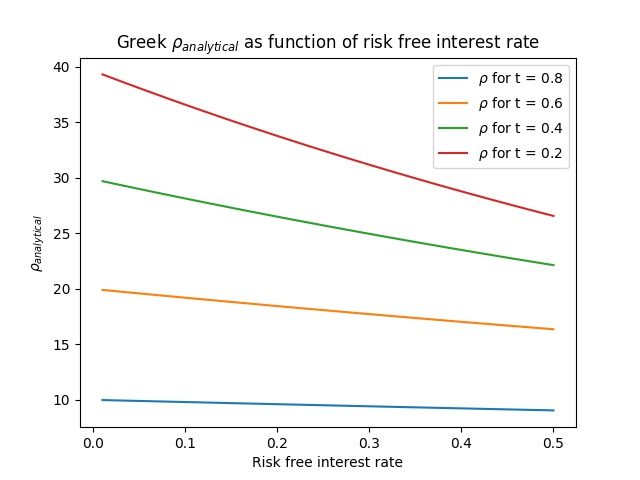
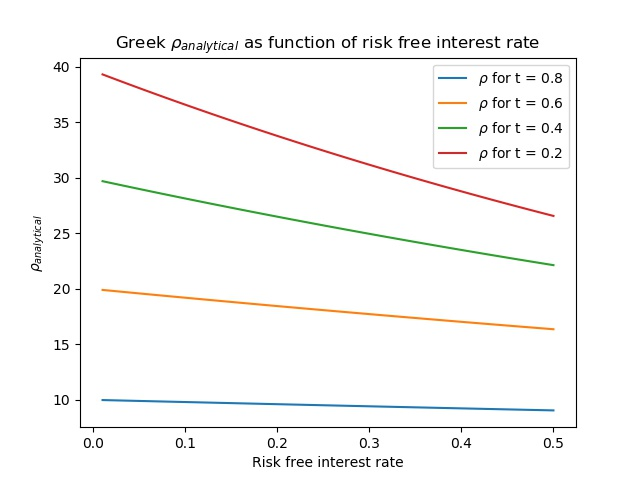
Changed some parameters to improve plots.

Changed region(s): [[0.375, 0.0625, 0.8438, 0.125], [0.1875, 0.0625, 0.375, 0.125], [0.4062, 0.9375, 0.625, 0.9688]]

diff --git a/Project5_BS/CodeBase/main_b.cpp b/Project5_BS/CodeBase/main_b.cpp
@@ -26,6 +26,7 @@ int main(int argc, char* argv[])
    SC.Initialize(T,X,N,filename,r,D,sigma,E);
    //SC.D1d_explicit();
    SC.Crank_Nic(print_per);
+
    vec sigma_vec =linspace(0.1,1.,1e2); vec r_vec = linspace(0.01,0.5,1e2);
    string rfilename = "greeks_r.txt";string sfilename = "greeks_s.txt";
    SC.Greeks(sigma_vec,r_vec, rfilename, sfilename);

diff --git a/Project5_BS/CodeBase/visualize.py b/Project5_BS/CodeBase/visualize.py
@@ -62,7 +62,7 @@ def N(d):
 
 
 def Vana(S_t, ti, sigma, r):
-    return N(d1(S_t, ti,sigma)) * S_t - N(d2(S_t, ti,sigma)) * E * np.exp(-r * (np.max(t) - ti))
+    return N(d1(S_t, ti,sigma)) * S_t - N(d2(S_t, ti,sigma)) * E * np.exp(-r * (ti))
 
 
 for i in range(1, len(t)):
